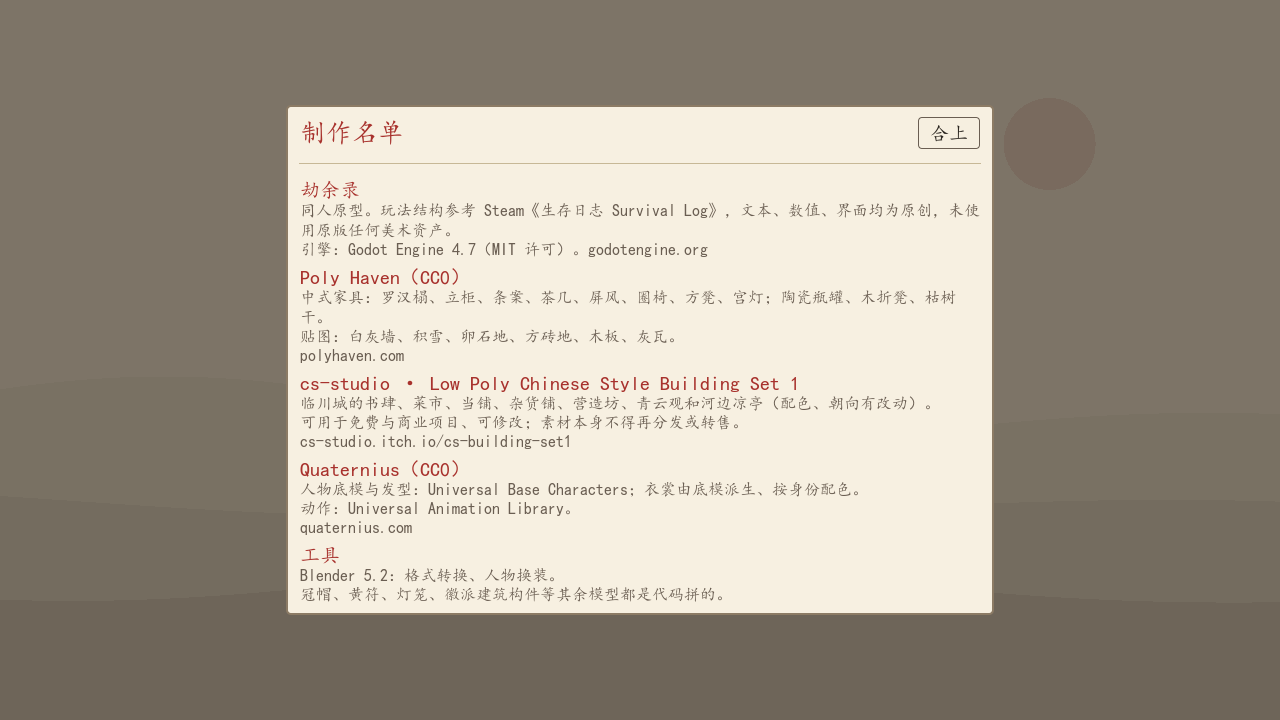
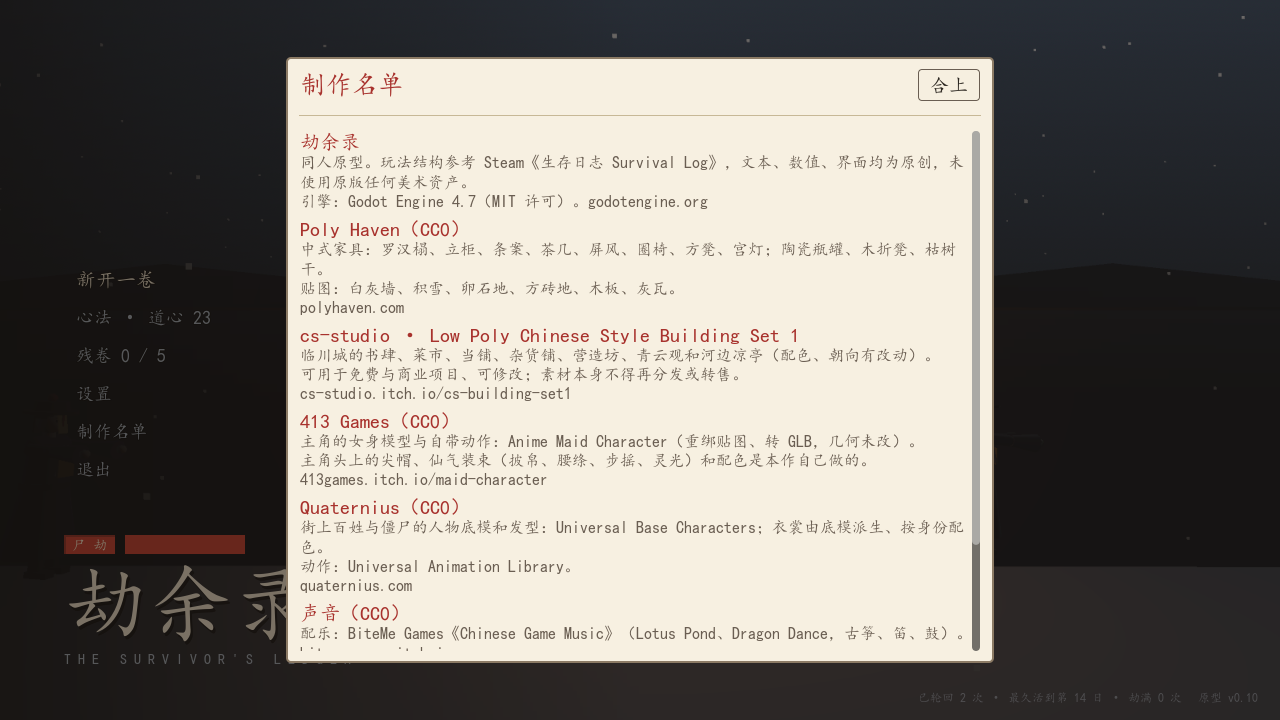
feat(title): 版本号改为 v0.10 并统一由 project.godot 提供，制作名单补 413 Games
改动：
- project.godot 的 application/config/version 改为 0.10.0；标题页角落改为读这个设置（title_screen.gd 新增 version_label()），不再写死「原型 v0.6」
- data/credits.json 新增 413 Games（CC0）条目：主角女身模型与自带动作，写明尖帽、仙气装束和配色为本作自制；Quaternius 条目改为"街上百姓与僵尸"
- 制作名单条目变多后超出屏幕，放进滚动区
- README、docs/02、docs/03 同步为 v0.10，去掉"标题页版本号没跟上""制作名单未列 413 Games"的说明；更新 docs/screenshots/credits.png

验证：
- check_scripts.tscn：共 56 个脚本，失败 0 个
- 渲染截图检查：--demo=title 角落显示「原型 v0.10」；--demo=credits 显示 413 Games 条目，滚动条出现，弹窗不再出界
- title_input.tscn：Title mouse click: PASS

未验收范围：
- 未跑 sim_test 与 ui_smoke（改动不涉及玩法逻辑）
- 玩家未实际查看

diff --git a/docs/02-chinese-style-design.md b/docs/02-chinese-style-design.md
@@ -106,5 +106,5 @@
 7. **原型 v0.7**：柴油发电机 + 暖气 + 柴油
 8. **原型 v0.8**：四档难度预设，并做了四档 × 多局的平衡验收（docs/08）
 9. **原型 v0.9**：载具（板车 / 独轮车 / 驴车）
-10. **v0.9 之后（未再编版本号）**：挑战自选（誓约 / 凭仗 / 了愿）、无尽模式、守到死与每日一局（含记分板）；邻居求药支线；运行时世情导演；前世记忆与 `Memory.md`；同院的人；工作台三条加工配方
+10. **原型 v0.10（当前）**：挑战自选（誓约 / 凭仗 / 了愿）、无尽模式、守到死与每日一局（含记分板）；邻居求药支线；运行时世情导演；前世记忆与 `Memory.md`；同院的人；工作台三条加工配方
 11. 接下来见 [10-roadmap.md](10-roadmap.md)：M2 纸鹤交易与针对性布防、M3 贯通道士—义庄—青云观主线与多结局、M4 充实轮回、M5 可发布版本；还没排进去的有多层宅院、机关傀儡、节气天气

diff --git a/README.md b/README.md
@@ -1,6 +1,6 @@
-# 劫余录 · The Survivor's Ledger（原型，迭代到 v0.9 之后）
+# 劫余录 · The Survivor's Ledger（原型 v0.10）
 
-> 文档更新于 2026-10-24，内容以当前代码为准。标题页角落仍显示「原型 v0.6」，是界面上的版本号没跟着改，不代表功能停在 v0.6。
+> 文档更新于 2026-10-24，内容以当前代码为准。版本号只在 `project.godot` 的 `application/config/version` 里维护，标题页角落直接读它。
 
 古风尸变 + 写实灾荒 + 一点东方仙侠的生存模拟。玩法结构、界面布局和交互方式参考《Survival Log / 生存日志》（灾前囤货 → 灾后经营 → 轮回），文本、数值、图标都是原创——没有从原版提取或复用任何美术资产。模型和贴图一部分是公开的免费素材（Poly Haven、cs-studio、Quaternius），其余用代码拼；来源和许可证见游戏标题页的"制作名单"和 [docs/03-art-assets.md](docs/03-art-assets.md)。
 
